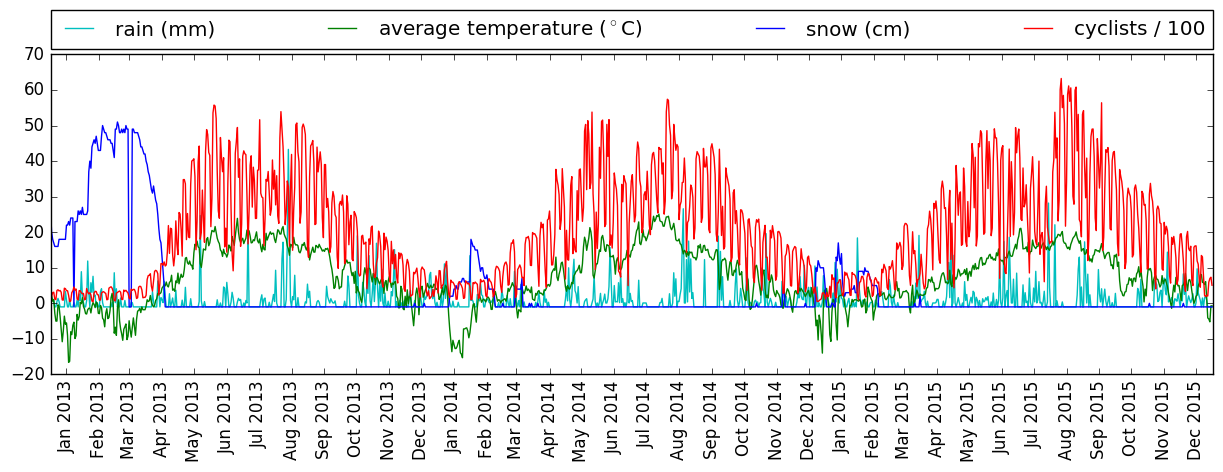
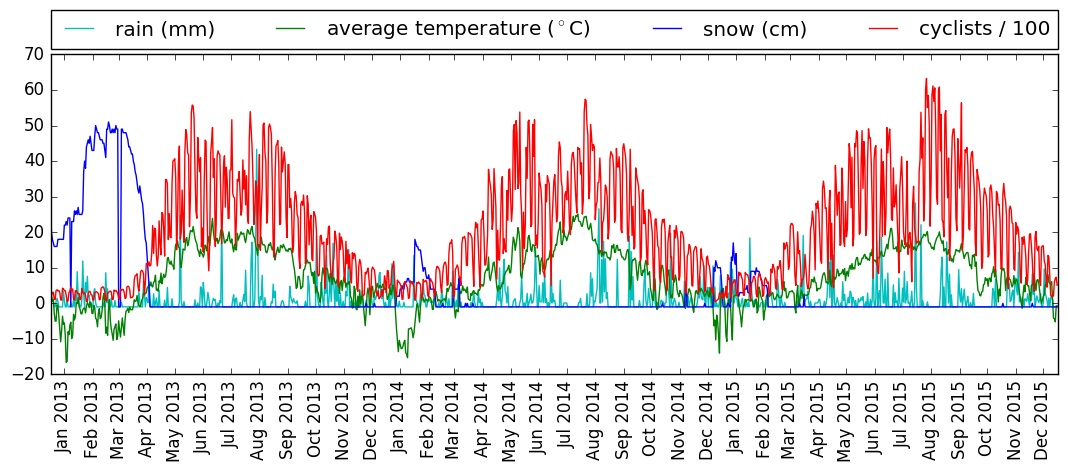
display plot of training data on the site

diff --git a/src/templates/index.html b/src/templates/index.html
@@ -1,0 +1,17 @@
+{% load staticfiles %}
+<!DOCTYPE html>
+<html>
+  <head>
+    <title>GettingStarted</title>
+    <link rel="stylesheet" type="text/css" href="//maxcdn.bootstrapcdn.com/bootstrap/3.3.4/css/bootstrap.min.css" />
+  </head>
+  <body>
+    <div class="container">
+      <div class="row">
+        <h3>Training data</h3>
+        <p>Weather data and cyclist counts plotted on top of each other:</p>
+        <img src="{% static 'training_data_clean.png'%}">
+      </div>
+    </div>
+  </body>
+</html>

diff --git a/ml/plotter.py b/ml/plotter.py
@@ -15,7 +15,7 @@ label_locations = [15, 46, 74, 105, 135, 166, 196, 227, 258, 288, 319, 349, 380,
 
 def plot_cyclists_over_weather(weather_data, cyclist_data):
     x = range(1095)
-    fig = plt.figure(figsize=(15, 4), dpi=100)
+    fig = plt.figure(figsize=(13, 4), dpi=100)
     plt.plot(x, weather_data[:,0], 'c-', label='rain (mm)')
     plt.plot(x, weather_data[:,1], 'g-', label='average temperature ($^\circ$C)')
     plt.plot(x, weather_data[:,2], 'b-', label='snow (cm)')

diff --git a/src/views.py b/src/views.py
@@ -5,6 +5,5 @@ from .models import Greeting
 
 # Create your views here.
 def index(request):
-    #return render(request, 'index.html')
-    return HttpResponse('Hello from Python!')
+    return render(request, 'index.html')
 
